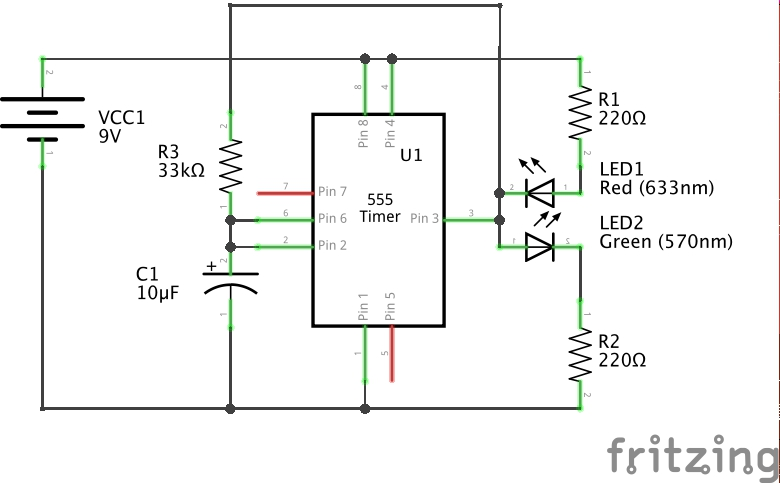
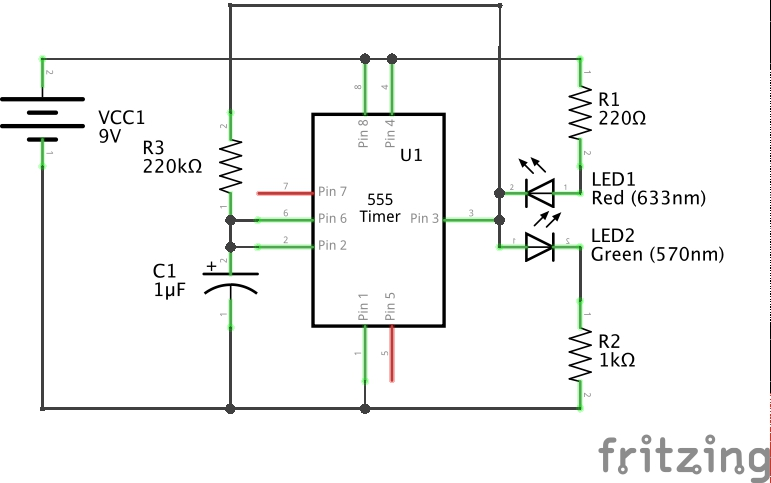
[555Timer/BipolarLedFlasher] swap some component values

diff --git a/Electronics101/555Timer/BipolarLedFlasher/README.md b/Electronics101/555Timer/BipolarLedFlasher/README.md
@@ -16,6 +16,10 @@ But due to the 220Ω + 220Ω bridge across the power supply, it drew over 20mA.
 By replacing the bipolar LED with two LEDs, and spliting the in & out paths, the effect is the same,
 but current draw is 25% less (~15mA).
 
+### Circuit Modifications
+
+* replaced the RC timer circuit with 1µF & 220kΩ. This slows the flashing (was a little fast) and means I can use small SMD ceramic capacitor instead of an electrolytic package.
+* tap the green LED with 1kΩ, to even the apparent brightness of the red and green LEDs.
 
 ## Construction
 
